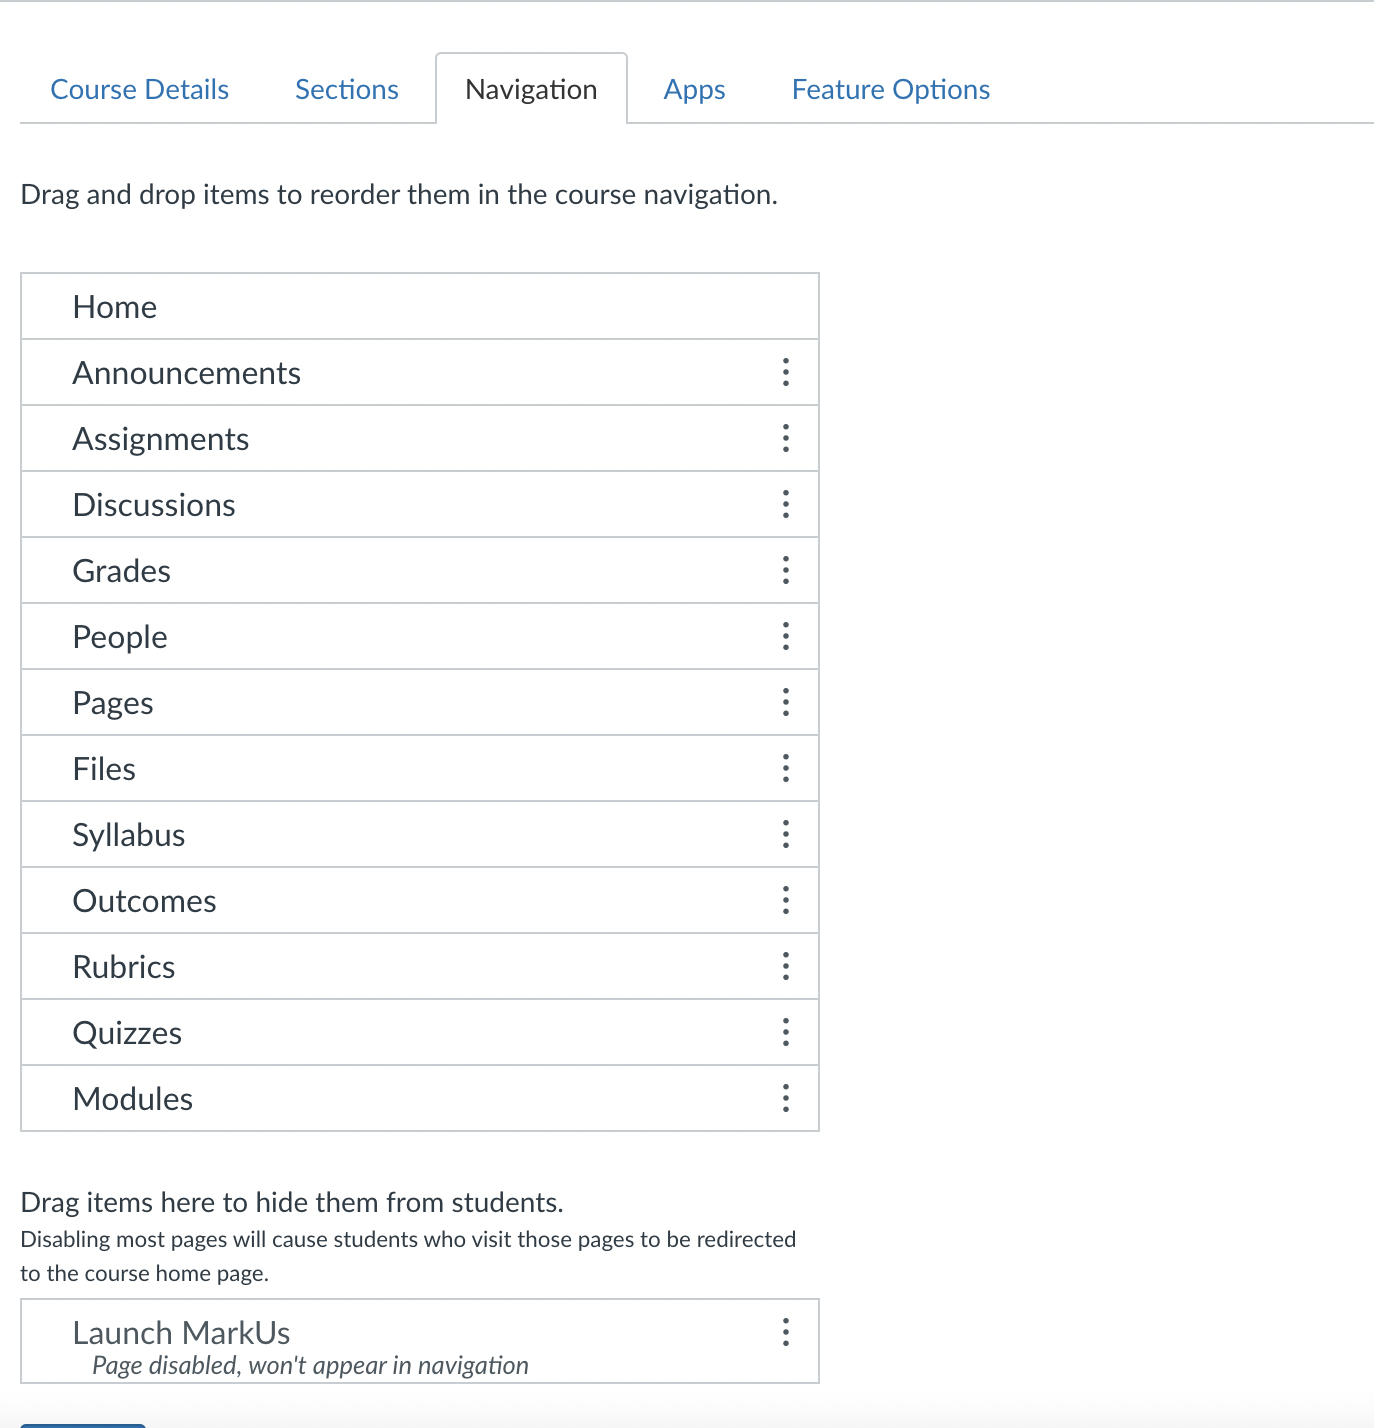
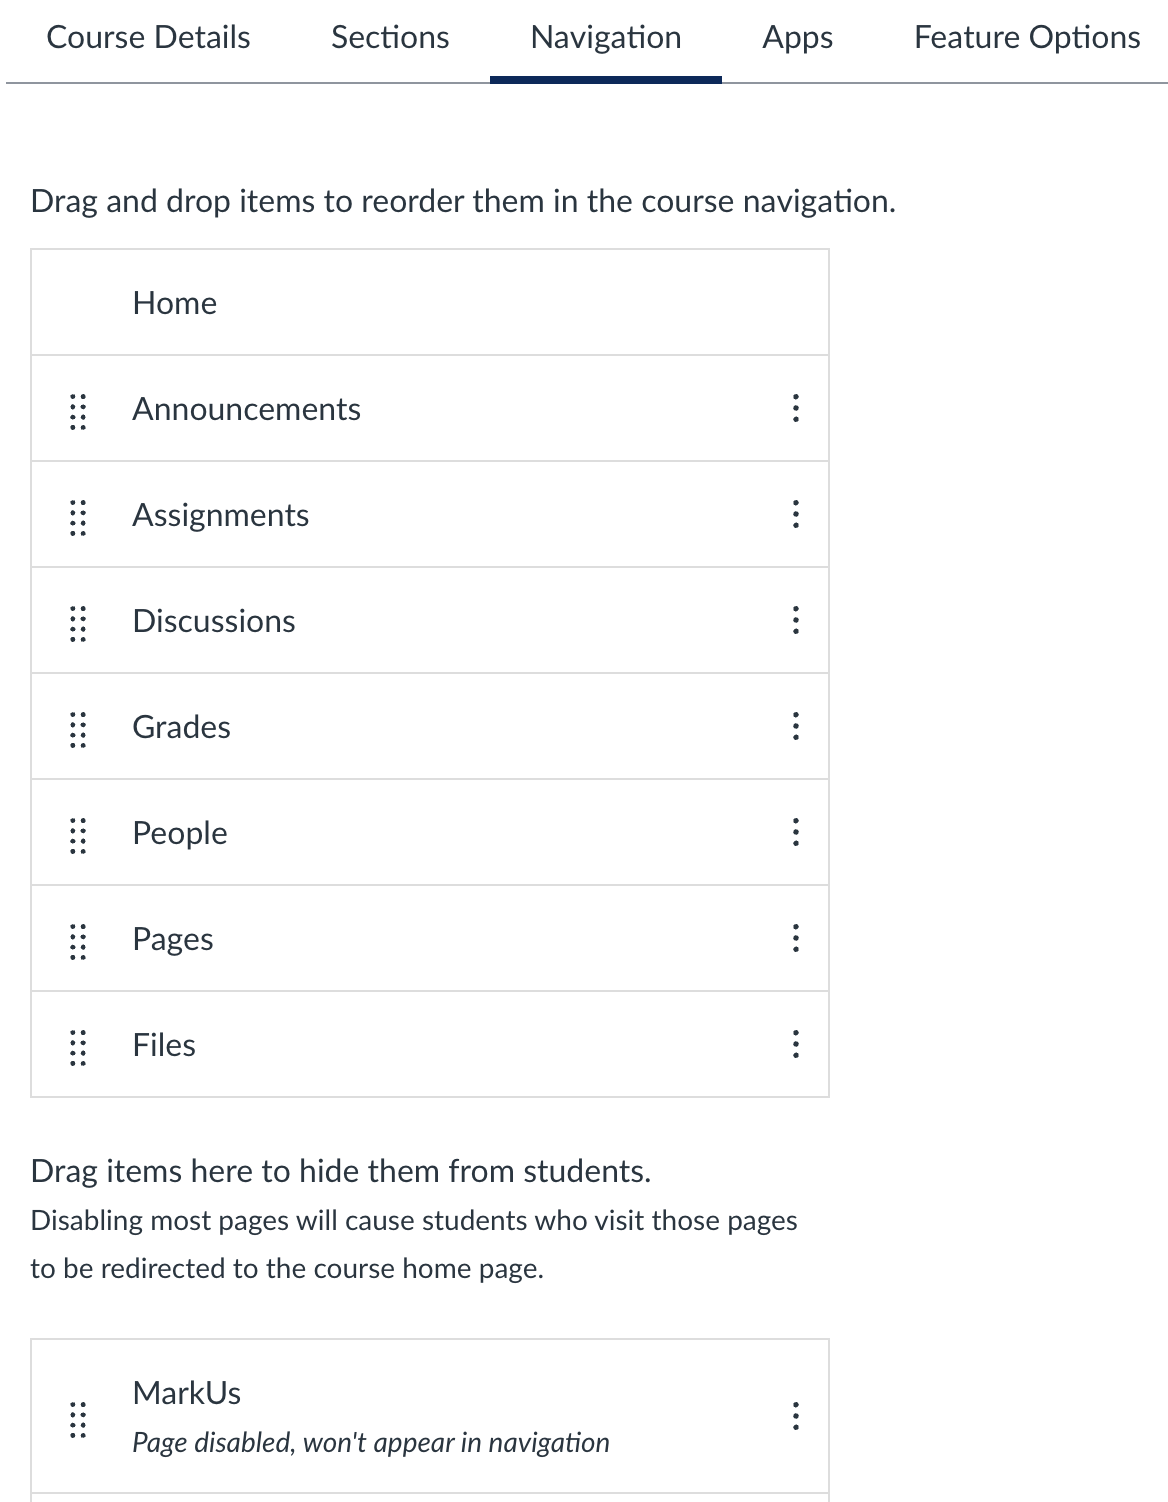
Updated LTI documentation to use correct name for the MarkUs launch link (#8171)

diff --git a/docs/docs/technical-guides/learning-tools-interoperability.md b/docs/docs/technical-guides/learning-tools-interoperability.md
@@ -60,7 +60,7 @@ on a schedule determined by your system administrator.
 
 ### Canvas
 
-Once installed in your course, a 'Launch Markus' page will appear in your
+Once installed in your course, a 'MarkUs' page will appear in your
 course's navigation (disabled by default), and needs to be added to the navigation:
 
 ![Canvas MarkUs Navigation](/images/canvas-markus-nav.png)
@@ -74,7 +74,7 @@ contact your Canvas administrators.
 
 Once MarkUs is configured with Canvas, an association between your
 Canvas course and your MarkUs course must be made.
-Click 'Launch MarkUs' in your Canvas course. If you are not logged in to MarkUs,
+Click 'MarkUs' in your Canvas course. If you are not logged in to MarkUs,
 you will be prompted to do so. Once you are logged in, you will be presented with
 a list of MarkUs courses for which you are an instructor. Select the course that matches your Canvas
 course and submit the form.

diff --git a/Changelog.md b/Changelog.md
@@ -17,6 +17,7 @@
 - Add multi-key JWKS rotation for LTI 1.3 signing keys (#8056)
 
 ### 🐛 Bug fixes
+- Updated LTI documentation to use correct name for the MarkUs launch link (#8171)
 
 ### 📚 Documentation changes
 
